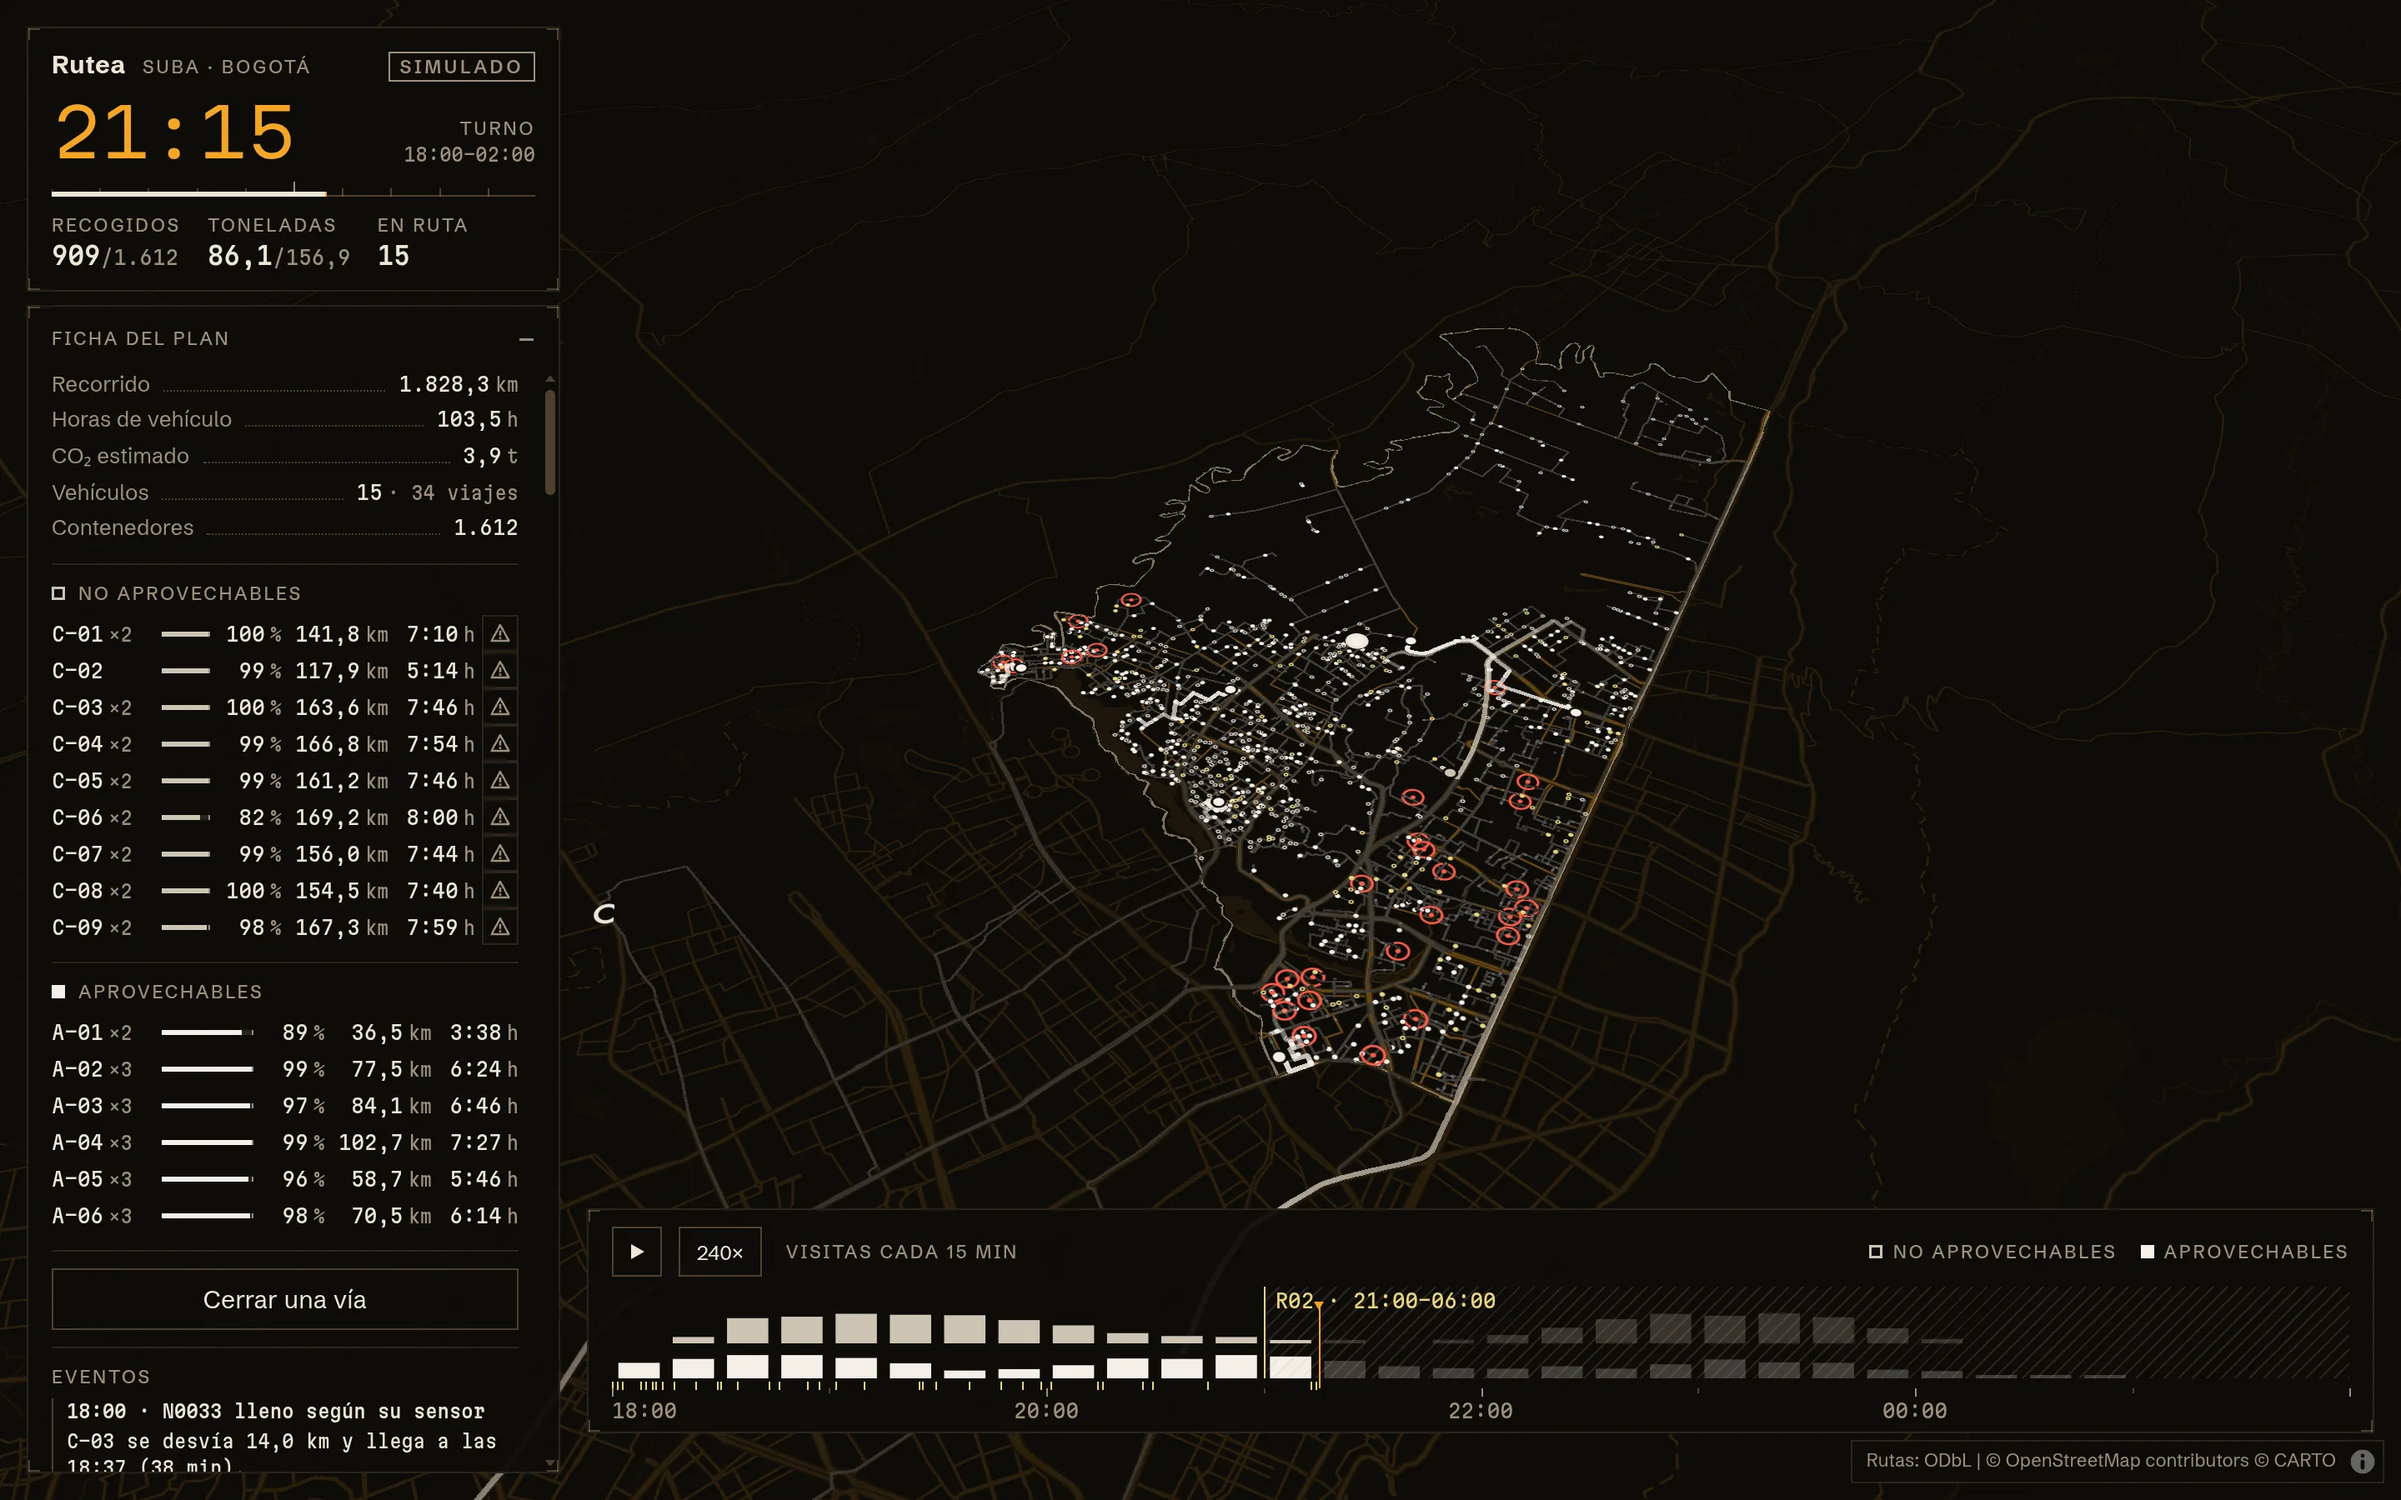
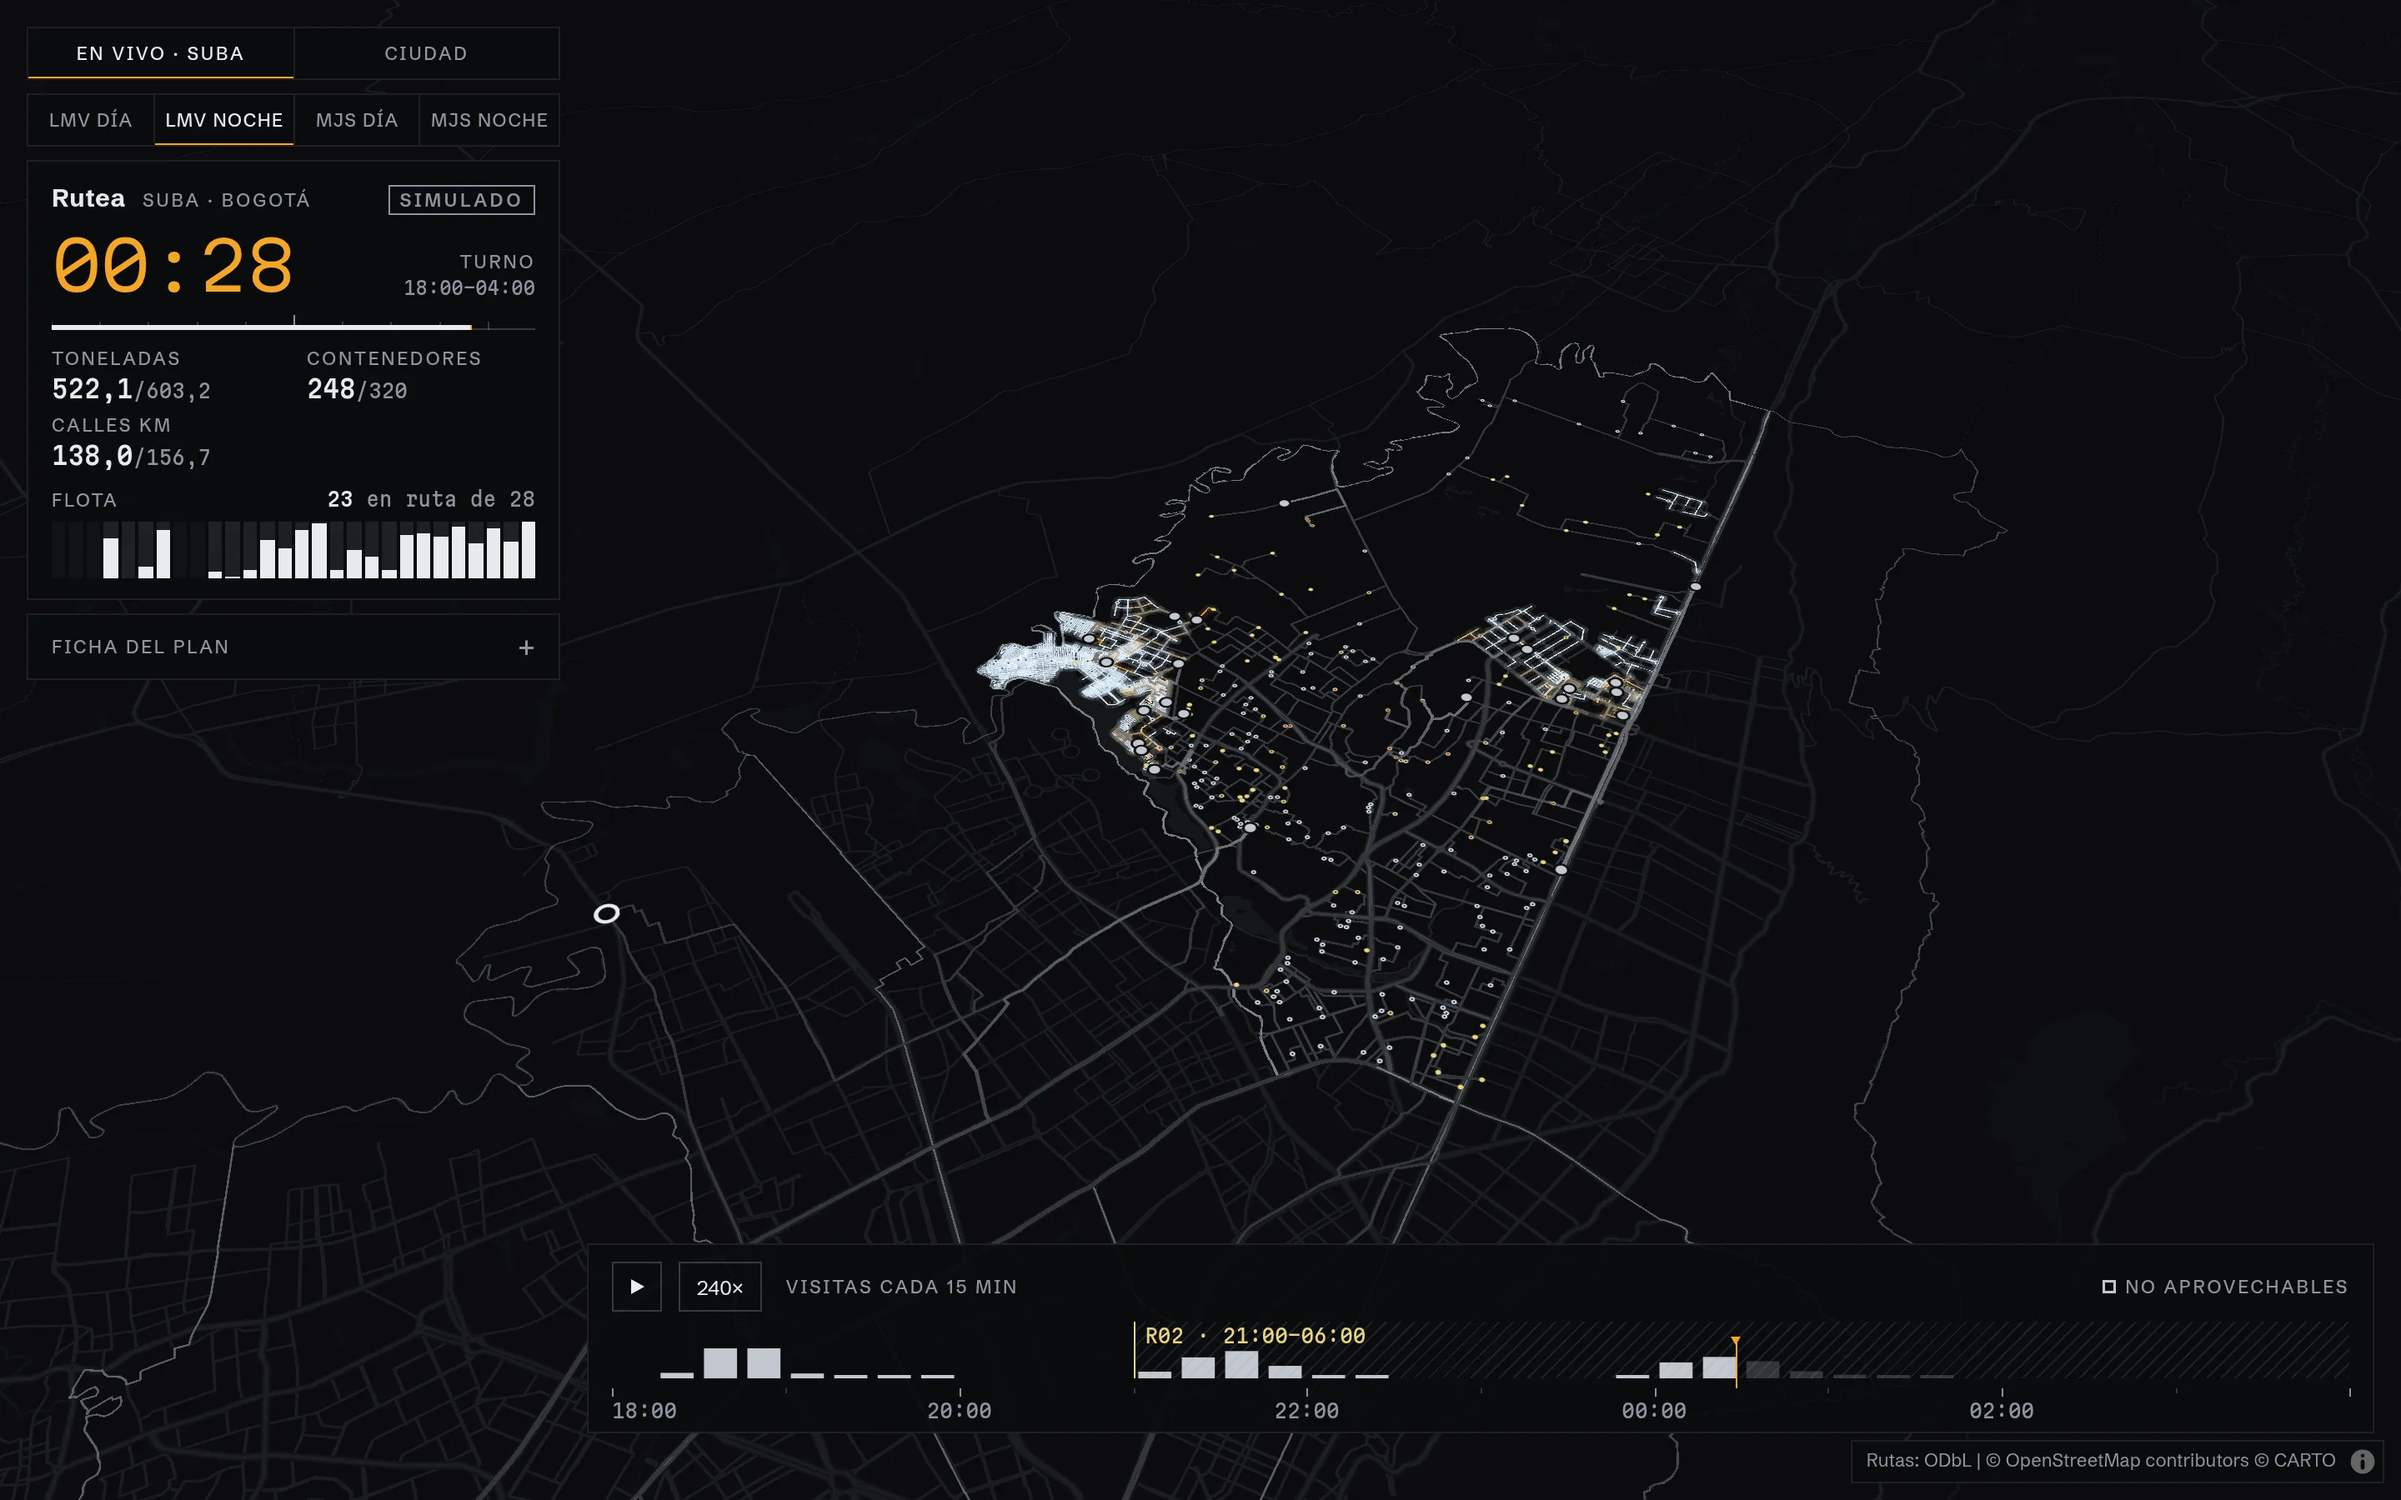
docs(readme): Refresh the hero screenshot with Suba live and door to door

diff --git a/README.md b/README.md
@@ -10,7 +10,7 @@
 [![CI](https://github.com/YmidOrtega/Rutea/actions/workflows/ci.yml/badge.svg)](https://github.com/YmidOrtega/Rutea/actions/workflows/ci.yml)
 [![CVRPLIB](https://img.shields.io/badge/CVRPLIB-set%20X-8A2BE2)](http://vrp.galgos.inf.puc-rio.br/)
 
-![Suba's night shift at 21:15: 909 of 1,612 containers collected, the R02 window and the overflows still to be picked up](docs/img/turno-suba.webp)
+![Suba live, Monday-Wednesday-Friday night shift at 00:28: 248 of 320 containers and 138 of 157 km of door-to-door streets collected, 23 of 28 trucks on route, inside the R02 night window](docs/img/turno-suba.webp)
 
 ---
 
